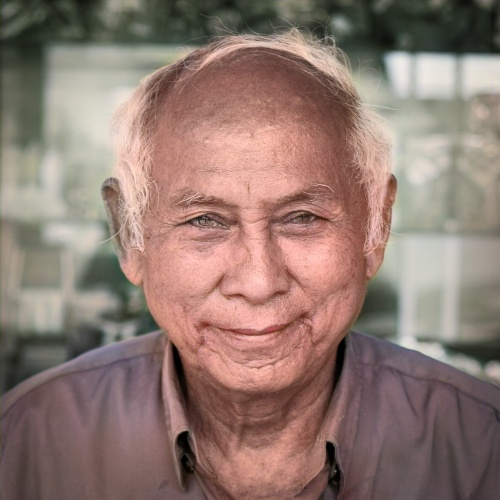
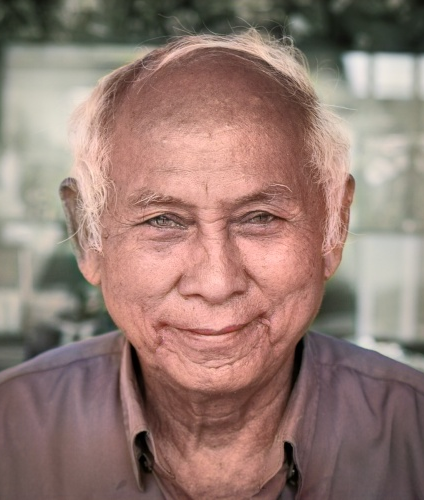
Done

diff --git a/JavaScript/toggle.js b/JavaScript/toggle.js
@@ -112,3 +112,68 @@ document.addEventListener('DOMContentLoaded', function() {
         }
     });
 });
+
+
+document.addEventListener('DOMContentLoaded', () => {
+    const checkbox = document.getElementById('check');
+    const menuIcon = document.getElementById('menu-icon');
+    const closeIcon = document.getElementById('close-icon');
+    const navBar = document.querySelector('.nav-bar');
+    const navLinks = document.querySelectorAll('.nav-bar a');
+    const icons = document.querySelector('.icons');
+
+    function openNavbar() {
+        checkbox.checked = true;
+        menuIcon.style.display = 'none';
+        closeIcon.style.display = 'inline-flex';
+        navBar.style.height = '16.5rem';
+        navLinks.forEach((link, index) => {
+            link.style.opacity = '1';
+            link.style.transform = 'translateY(0)';
+            link.style.transitionDelay = `calc(0.12s * ${index})`;
+        });
+    }
+
+    function closeNavbar() {
+        checkbox.checked = false;
+        menuIcon.style.display = 'inline-flex';
+        closeIcon.style.display = 'none';
+        navBar.style.height = '0';
+        navLinks.forEach(link => {
+            link.style.opacity = '0';
+            link.style.transform = 'translateY(-10px)';
+            link.style.transitionDelay = '0s';
+        });
+    }
+
+    // Menu icon click
+    menuIcon.addEventListener('click', (e) => {
+        e.stopPropagation();
+        openNavbar();
+    });
+
+    // Close icon click
+    closeIcon.addEventListener('click', (e) => {
+        e.stopPropagation();
+        closeNavbar();
+    });
+
+    // Close when nav links clicked
+    navLinks.forEach(link => {
+        link.addEventListener('click', () => {
+            closeNavbar();
+        });
+    });
+
+    // Close when clicking outside
+    document.addEventListener('click', (e) => {
+        if (checkbox.checked && 
+            !navBar.contains(e.target) && 
+            !icons.contains(e.target)) {
+            closeNavbar();
+        }
+    });
+
+    // Initial setup
+    closeIcon.style.display = 'none';
+});

diff --git a/CSS Files/ourteam.css b/CSS Files/ourteam.css
@@ -3,7 +3,7 @@
 .our-team {
     display: flex;
     justify-content: flex-start;
-    height: 100vh;
+    height: 87vh;
     box-sizing: border-box;
     max-width: 100%;
     gap: 40px;
@@ -105,6 +105,62 @@
     font-size: 1.5rem;
     margin-top: 9px;
     margin-left: 10px;
+}
+
+@media screen and (min-width: 769px) and (max-width: 1024px) {
+    .meet-our-team {
+        height: auto;
+        padding: 2rem 0;
+    }
+
+    .meet-our-team h3 {
+        font-size: 2rem;
+        margin-bottom: 2rem;
+    }
+
+    .member-container {
+        width: 95%;
+        padding: 0 20px;
+        gap: 20px;
+        flex-direction: row;
+        flex-wrap: wrap;
+        justify-content: center;
+    }
+
+    .member-container > * {
+        width: 220px;
+        height: 400px;
+        padding: 20px;
+    }
+
+    .member-container img {
+        height: 150px;
+        width: 150px;
+        margin-bottom: 15px;
+    }
+
+    .member-container h4 {
+        font-size: 1.3rem;
+    }
+
+    .member-container p {
+        font-size: 0.9rem;
+    }
+
+    .member-container #border {
+        width: 80px;
+        height: 3px;
+        margin-bottom: 15px;
+    }
+
+    .media-logo {
+        font-size: 1.3rem;
+        margin-top: 8px;
+    }
+
+    .media-logo > * {
+        margin-right: 10px;
+    }
 }
 
 /* Mobile Responsiveness */

diff --git a/CSS Files/3-individual.css b/CSS Files/3-individual.css
@@ -115,14 +115,17 @@
 
 /* Tablet Responsive Design */
 @media (max-width: 1024px) {
-    .individual-card {
-        flex-direction: column;
-        max-width: 500px;
+    .individual-image {
+        height: 400px; 
     }
 
-    .individual-image {
-        flex: 0 0 300px;
-        width: 100%;
+    .individual-image img {
+        object-fit: cover;
+        object-position: top center;
+    }
+
+    .individual-details {
+        padding: 1.2rem;
     }
 }
 
@@ -133,13 +136,19 @@
     }
 
     .individual-card {
+        height: auto; 
         flex-direction: column;
         max-width: 100%;
         margin-bottom: 0.5rem;
     }
 
     .individual-image {
-        flex: 0 0 250px;
+        height: 350px; 
+    }
+
+    .individual-image img {
+        object-fit: cover;
+        object-position: top center;
     }
 
     .individual-details {
@@ -159,15 +168,11 @@
 /* Small Mobile Devices */
 @media (max-width: 480px) {
     .individual-image {
-        flex: 0 0 250px;
+        height: 300px; 
     }
 
     .title-three-indiv h2 {
         font-size: 1.3rem;
-    }
-
-    .individual-image img {
-        object-position: top;
     }
 
     .image-overlay {

diff --git a/index.html b/index.html
@@ -3,7 +3,7 @@
     <head>
         <meta charset="utf-8">
         <meta http-equiv="X-UA-Compatible" content="IE=edge">
-        <title>Khmer Rouge Regime - History and Analysis</title>
+        <title>Khmer Rouge Regime - A People’s History </title>
         <meta name="description" content="Explore the history of the Khmer Rouge regime, its impact on Cambodia, and the 5 Cs of Historical Thinking: Change Over Time, Context, Causality, Contingency, and Complexity.">
         <meta name="viewport" content="width=device-width, initial-scale=1">
 
@@ -154,8 +154,7 @@
                     </ul>
                 </div>
             </div>
-        
-            <!-- Repeat similar structure for Heng Somrin and Chum Mey -->
+            
         </section>
 
         <section class="movement" id="movement">

diff --git a/CSS Files/header.css b/CSS Files/header.css
@@ -113,7 +113,7 @@
         overflow: hidden;
     }
     #check:checked~.nav-bar {
-        height: 16rem;
+        height: 16.5rem;
     }
     .nav-bar a {
         display: block;
@@ -158,11 +158,11 @@
     }
 
     .header {
-        padding: 0.8rem 4%;
+        padding: 1.2rem 4%;
     }
 
     .icons {
-        font-size: 2rem;
+        font-size: 2.5rem;
     }
 
     html {

diff --git a/CSS Files/styles.css b/CSS Files/styles.css
@@ -204,6 +204,12 @@ body {
 
 /* Mobile Responsiveness */
 @media screen and (max-width: 768px) {
+    
+    #landing-page {
+        padding-top: 7rem;
+        animation: none;
+    }
+
     .landing-text {
         width: 75%;
         max-width: 90%;
